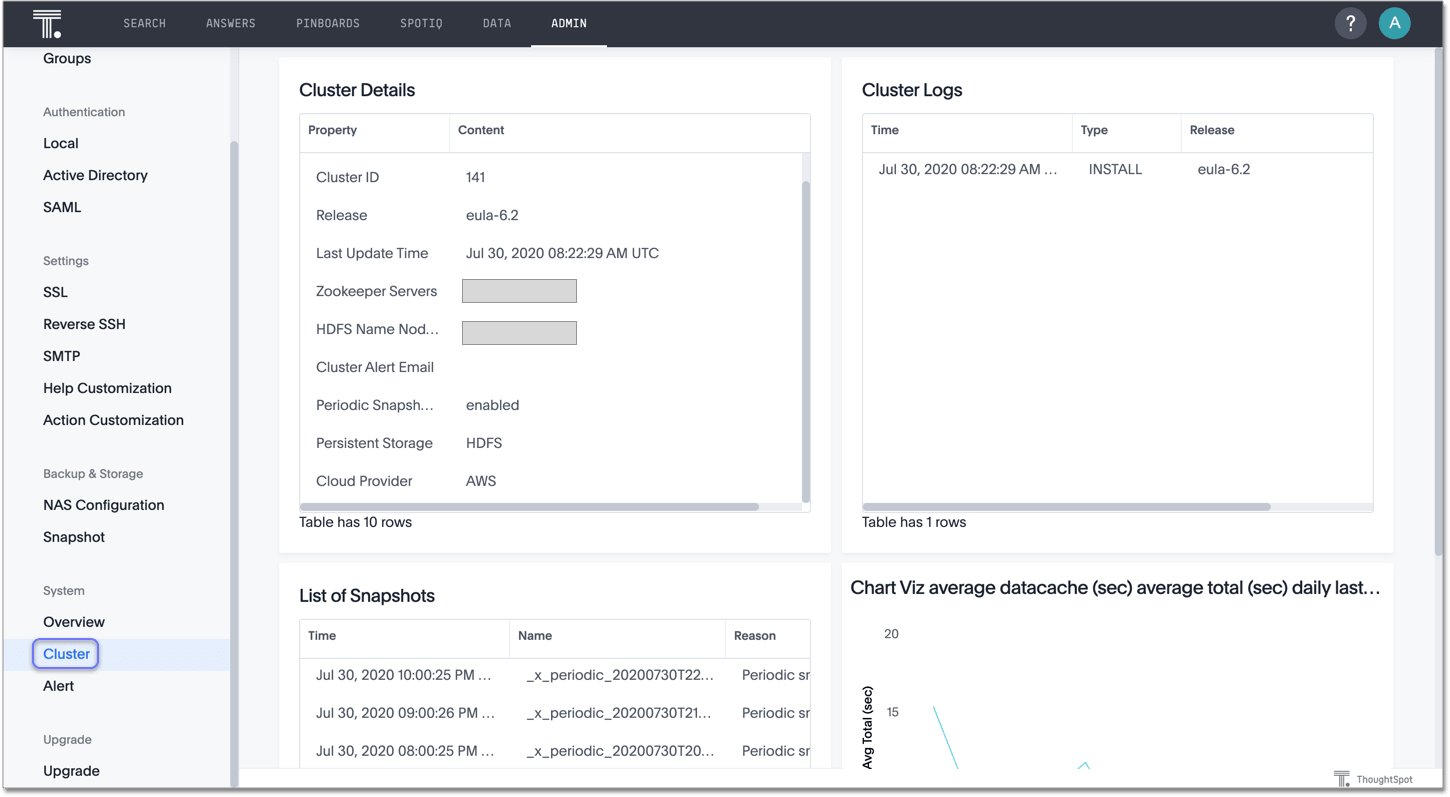
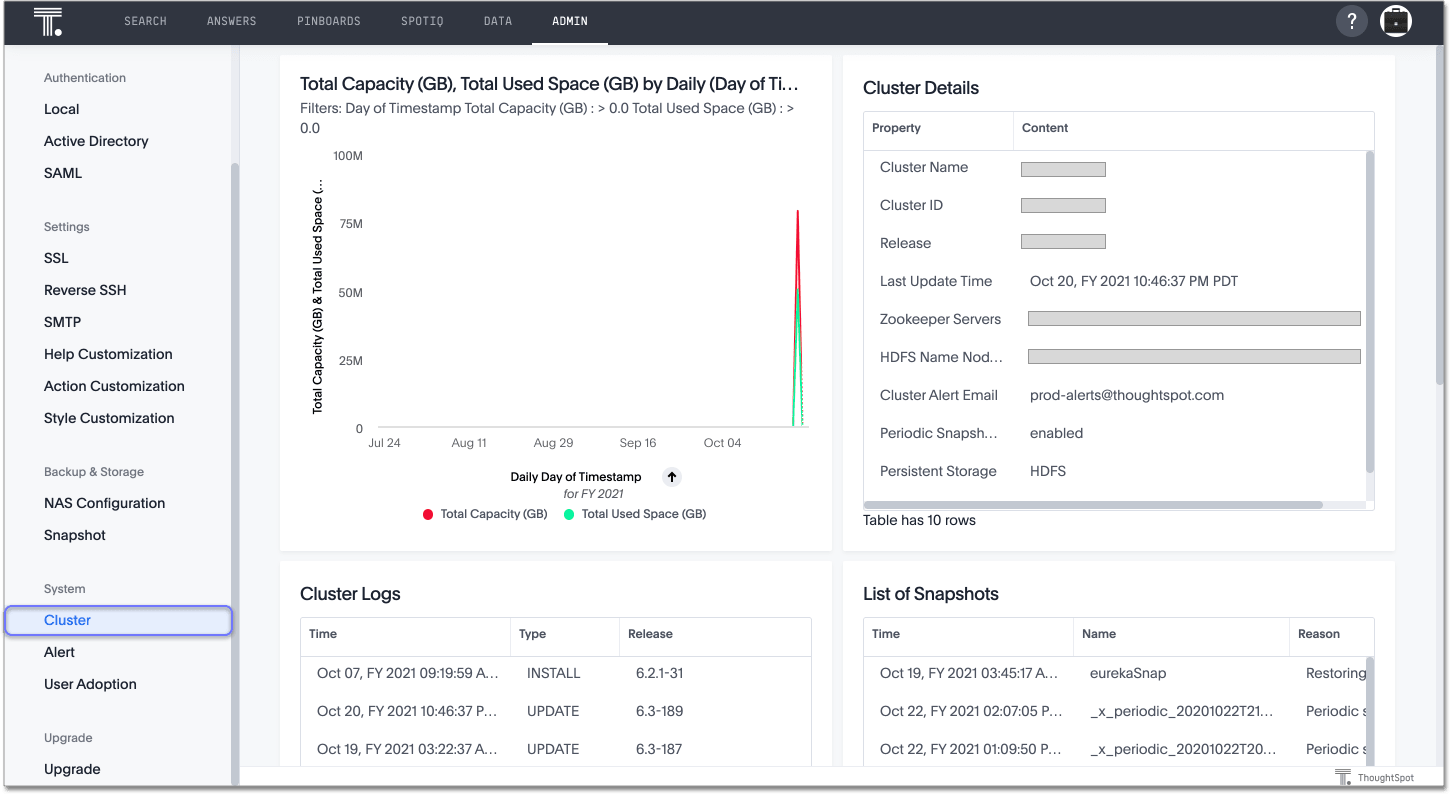
user adoption, performance tracking, removal of system overview pinboard, admin portal cleanup

diff --git a/_includes/content/admin-portal/system-overview-pinboard.md b/_includes/content/admin-portal/system-overview-pinboard.md
@@ -1,14 +1,14 @@
-You can view system and usage information for your ThoughtSpot cluster from the Admin Console. The **System Overview Pinboard** contains several charts and tables that track monthly active users, top Pinboards by number of views, today's users, and so on. To view this Pinboard, navigate to the Admin Console by clicking on the **Admin** tab from the top navigation bar. Select **Overview** from the side navigation bar that appears.
+You can view system and usage information for your ThoughtSpot cluster from the **TS Stats: System Information and Usage Pinboard**. This Pinboard contains several charts and tables that track monthly active users, top Pinboards by number of views, today's users, and so on. To view this Pinboard, search for it in the **Pinboards** tab.
 
-![Admin Console - Overview Pinboard]({{ site.baseurl }}/images/admin-portal-overview-pinboard.png "Admin Console - Overview Pinboard")
+![TS Stats: System Information and Usage Pinboard]({{ site.baseurl }}/images/system-info-usage-pinboard.png "TS Stats: System Information and Usage Pinboard")
 
-## Understand the System Overview Pinbaord
+## Understand the TS Stats: System Information and Usage Pinboard
 
-The **System Overview Pinboard** page consists of standard ThoughtSpot Answers that update in real time and rely on internal system data. The Answers rely on underlying system worksheets, which are available to ThoughtSpot administrators. The information in these worksheets updates hourly from internal tables that collect monitoring statistics.  
+The **TS Stats: System Information and Usage Pinboard** page consists of standard ThoughtSpot Answers that update in real time and rely on internal system data. The Answers rely on underlying system worksheets, which are available to ThoughtSpot administrators. The information in these worksheets updates hourly from internal tables that collect monitoring statistics.  
 
 The **more options menu** ![]({{ site.baseurl }}/images/icon-more-10px.png){: .inline} for the Answers in this Pinboard contains fewer options than the traditional menu. You can **SpotIQ analyst**, **download**, **edit,** or **present** the Answer. When you **edit** the Answer, you see the query that ThoughtSpot built the Answer on. You can also copy the Answer's embed link, use [Answer Explorer]({{ site.baseurl }}/end-user/pinboards/answer-explorer.html) on the Answer, or interact with the Answer by [drilling down]({{ site.baseurl }}/complex-search/drill-down.html). While you can interact with and change a copied version of the Answer, you cannot save changes to the underlying query.
 
-The following charts, tables, and panels are available on the **System Overview Pinboard**: [cluster summary](#cluster-summary), [relational data cache](#relational-data-cache), [relational search engine](#relational-search-engine), [critical alerts](#critical-alerts), [space utilization](#space-utilization), [monthly active users](#mau), [monthly ad-hoc searches](#monthly-searches), [monthly Pinboard views,](#monthly-pb-views), [top users last month](#top-users), [top Pinboards last month](#top-pinboards), [ad-hoc search by user](#searches-user), and [today's users](#users-today).
+The following charts, tables, and panels are available on the **TS Stats: System Information and Usage Pinboard**: [cluster summary](#cluster-summary), [critical alerts](#critical-alerts), [monthly active users](#mau), [monthly ad-hoc searches](#monthly-searches), [monthly Pinboard views,](#monthly-pb-views), [top users last month](#top-users), [top Pinboards last month](#top-pinboards), [ad-hoc search by user](#searches-user), [today's users](#users-today), and [configuration events](#configuration-events).
 
 {: id="cluster-summary"}
 ## Cluster Summary
@@ -300,6 +300,7 @@ today
 ```
 The query uses the `TS: BI Server` data source.
 
+{: id="configuration-events"}
 ## Configuration Events
 
 This system answer displays recent events that changed the configuration of the

diff --git a/_includes/content/admin-portal/system-cluster-pinboard.md b/_includes/content/admin-portal/system-cluster-pinboard.md
@@ -1,10 +1,39 @@
-You can view cluster information from the Admin Console. The **System Cluster Pinboard** contains several ThoughtSpot Answers that display latency over time, snapshot status, installed release, node functions, and logs. To view this Pinboard, navigate to the Admin Console by clicking on the **Admin** tab from the top navigation bar. Select **Cluster** from the side navigation bar that appears.
+You can view cluster information from the Admin Console. The **System Cluster Pinboard** contains several ThoughtSpot Answers that display capacity, latency over time, snapshot status, installed release, node functions, and logs. To view this Pinboard, navigate to the Admin Console by clicking on the **Admin** tab from the top navigation bar. Select **Cluster** from the side navigation bar that appears.
 
 ![Admin Console - Cluster Pinboard]({{ site.baseurl }}/images/admin-portal-cluster-pinboard.png "Admin Console - Cluster Pinboard")
 
-Only the **Average Latency Last 2 Weeks (sec)** panel contains a standard
-ThoughtSpot visualization. The other visualizations rely on internal queries
-that are not accessible. You can, however, **Present** them, or **Copy embed link**.
+Only the **Average Latency Last 2 Weeks (sec)** and **Total Capacity** panels contain a standard ThoughtSpot visualization. The other visualizations rely on internal queries that are not accessible. You can, however, **Present** them, or **Copy embed link**.
+
+{: id="space-utilization"}
+## Total Capacity (GB), Total Used Space (GB) by Daily (Day of Timestamp)
+
+The **Total Capacity (GB), Total Used Space (GB) by Daily (Day of Timestamp)** chart displays your cluster's total capacity and estimated used capacity over time.
+
+![Space utilization]({{ site.baseurl }}/images/admin-portal-overview-pinboard-space-utilization.png "Space Utilization")
+
+The x-axis is by time and the y-axis measures the size in GB. You can zoom in
+and see daily or hourly utilization data. So, in the **Space Utilization** chart
+above, the green line shows the amount of capacity in use in the system, while
+the red line shows the total capacity. An increase in the red line at the end of
+a time period indicates the addition of extra hardware, resulting in increased
+capacity.
+
+The query for this Answer is the following:
+
+
+```
+day of timestamp
+total capacity (gb)
+total used space (gb)
+daily
+last 90 days last 25 hours
+total capacity (gb) > 0
+total used space (gb) > 0
+```
+
+The chart relies on the `TS: Internal Table Wise Capacity WS` worksheet. It
+tracks  total used space, which consists of raw uncompressed data, including
+replication.
 
 ## Cluster Details
 

diff --git a/_admin/system-monitor/introduction.md b/_admin/system-monitor/introduction.md
@@ -1,25 +1,20 @@
 ---
 title: [Introduction to monitoring]
 summary: "Learn how to monitor your system."
-last_updated: 11/18/2019
+last_updated: 10/22/2020
 sidebar: mydoc_sidebar
 permalink: /:collection/:path.html
 ---
-System monitoring tools in ThoughtSpot include an **Admin > System Health** page and system logs. Additionally, ThoughtSpot provides several worksheets and
+System monitoring tools in ThoughtSpot include several Pinboards in the **Admin Console** and system logs. Additionally, ThoughtSpot provides several worksheets and
 out-of-the-box system monitoring pinboards. From these worksheets, you can
 create your own custom visualizations and pinboards.  This page introduces these features and directs you towards more detailed information.
 
-## System Health center
+## Admin Console
 
-The ThoughtSpot application includes a **System Health** center, for easy monitoring
-of usage, alerts, events and general cluster health. You view the System Health
-Center by choosing the **Admin** icon and then selecting **System Health**.
+The ThoughtSpot application includes an **Admin Console** center, where you can easily monitor usage, alerts, events and general cluster health. Navigate to the Admin Console by selecting **Admin** from the top navigation bar.
 
-![]({{ site.baseurl }}/images/control_center_overview.png "System Health center: Overview")
-
-Only users with administrative privileges can view the **System Health** center.
-However, administrative users can present to others the information that
-displays in the **System Health** center.
+Only users with administrative privileges can view the **Admin Console**.
+However, administrative users can present the information in the **Admin Console** to others
 
 Administrators can also create their own, custom boards that reflect system data
 in ways that are meaningful to specific departments or groups. For more
@@ -31,6 +26,8 @@ information, see the following documentation:
 * [Alerts and Events board]({{ site.baseurl }}/admin/system-monitor/cluster-manager.html)
 * [System worksheets]({{ site.baseurl }}/admin/system-monitor/worksheets.html)
 * [System pinboards]({{ site.baseurl }}/admin/system-monitor/monitor-pinboards.html)
+* [Falcon monitoring Pinboards]({{ site.baseurl }}/admin/system-monitor/falcon-monitor.html)
+* [Performance Tracking Pinboard]({{ site.baseurl }}/admin/system-monitor/performance-tracking.html)
 
 Much of the data presented by these boards is also available through [`tscli` commands]({{ site.baseurl }}/reference/tscli-command-ref.html).
 

diff --git a/_admin/system-monitor/monitor-pinboards.md b/_admin/system-monitor/monitor-pinboards.md
@@ -17,15 +17,13 @@ statistics.
  They are based on worksheets, which administrators can view, but not modify.
  However, you can create new monitoring pinboards from the worksheets.
 
-## List system pinboards
+## View system pinboards
 
-To list these system pinboards:
+To view these system pinboards:
 
 1. Go to the **Pinboards** tab.
 2. Choose **All**.
-3. Enter `TS: ` in the search field.
-
-   ![]({{ site.baseurl }}/images/su-pinboards.png)
+3. Search for the Pinboard you would like to view. You can view the **System Cluster Pinboard**, the **System Alert Pinboard**, and the **User Adoption Pinboard** from the Admin Console.
 
 ## Summary of system pinboards
 
@@ -73,6 +71,18 @@ To list these system pinboards:
       <td><code class="highlighter-rouge">TS Stats: Table Status</code></td>
       <td>
          Replicates the <strong>Data</strong> board.
+      </td>
+   </tr>
+   <tr>
+      <td><code class="highlighter-rouge">User Adoption</code></td>
+      <td>
+         Contains information on how your ThoughtSpot users are interacting with ThoughtSpot, and how your user adoption is changing over time. Refer to <a href="{{ site.baseurl }}/admin/admin-portal/user-adoption-pinboard.html">User Adoption Pinboard</a>.
+      </td>
+   </tr>
+   <tr>
+      <td><code class="highlighter-rouge">Performance Tracking</code></td>
+      <td>
+         Contains information on how your ThoughtSpot cluster is performing. Refer to <a href="{{ site.baseurl }}/admin/system-monitor/performance-tracking.html">Performance Tracking Pinboard</a>.
       </td>
    </tr>
   </table>

diff --git a/_admin/admin-portal/user-adoption-pinboard.md b/_admin/admin-portal/user-adoption-pinboard.md
@@ -1,0 +1,24 @@
+---
+title: [User Adoption Pinboard]
+last_updated: 10/22/2020
+summary: "Use the User Adoption Pinboard to understand how your ThoughtSpot users are interacting with ThoughtSpot, and how your user adoption is changing over time."
+sidebar: mydoc_sidebar
+permalink: /:collection/:path.html
+---
+The User Adoption Pinboard contains essential information about your ThoughtSpot users and their adoption of the platform. Use this Pinboard to understand weekly active users, inactive users, top 10 adhoc searchers, popular Pinboards, and so on.
+
+To view this Pinboard, navigate to the **Admin Console** by selecting **Admin** from the top navigation bar. Select **User Adoption** from the side navigation bar.
+
+![User Adoption Pinboard]({{ site.baseurl }}/images/user-adoption.png "User Adoption Pinboard")
+
+You can filter the Pinboard by user from the filter bar underneath the Pinboard name.
+
+Use this Pinboard to view and analyze information about the following topics:
+- hourly, daily, weekly, and monthly active users
+- number of Pinboards and Answers on the cluster
+- which users are most active in ThoughtSpot, and what they do
+- popular Pinboards
+- user actions in the last month
+- unused Answers and Pinboards
+- inactive users
+- users by last login, number of Pinboard interactions, number of Search interactions, and number of days logged in during the last 6 months

diff --git a/_admin/system-monitor/performance-tracking.md b/_admin/system-monitor/performance-tracking.md
@@ -1,0 +1,25 @@
+---
+title: [Performance Tracking Pinboard]
+last_updated: 10/22/2020
+summary: "Use the Performance Tracking Pinboard to understand how your ThoughtSpot cluster is performing."
+sidebar: mydoc_sidebar
+permalink: /:collection/:path.html
+---
+The Performance Tracking Pinboard contains essential information about your ThoughtSpot cluster's performance. Use this Pinboard to understand query latency, user traffic, how users are interacting with ThoughtSpot, most frequently loaded tables, and so on.
+
+![Performance Tracking Pinboard]({{ site.baseurl }}/images/performance-tracking.png "Performance Tracking Pinboard")
+
+To view this Pinboard, click on the **Pinboards** tab from the top navigation bar. Search for **Performance Tracking**.
+
+![Performance Tracking Pinboard]({{ site.baseurl }}/images/performance-tracking-search.png "Performance Tracking Pinboard")
+
+Use this Pinboard to view and analyze information about the following topics:
+- query latency
+- whether users are searchers or consumers
+- user traffic
+- database latency
+- query timeouts
+- frequently loaded tables
+- data requests and latency
+- data errors
+- pinboard latency

diff --git a/_admin/admin-portal/admin-portal.md b/_admin/admin-portal/admin-portal.md
@@ -50,7 +50,6 @@ Use network attached storage to support backup/restore and data loading.
 Create and manage snapshots, which you can use to restore the cluster to a specific point in time.
 
 **Monitor system**
-* [View System Overview Pinboard]({{ site.baseurl }}/admin/admin-portal/system-overview-pinboard.html)<br>
 View and explore your users' activity on the system overview Pinboard.
 * [View System Cluster Pinboard]({{ site.baseurl }}/admin/admin-portal/system-cluster-pinboard.html)<br>
 View and explore cluster activity on the system cluster Pinboard.

diff --git a/_reference/alerts-reference.md b/_reference/alerts-reference.md
@@ -6,8 +6,7 @@ sidebar: mydoc_sidebar
 permalink: /:collection/:path.html
 ---
 
-This reference identifies the messages that can appear in the **System Health >
-Overview > Critical Alerts** and in the  **Alerts** dashboard.
+This reference identifies the messages that can appear in the **TS Stats: System Information and Usage > Critical Alerts** panel and in the  **Alerts** dashboard.
 
 ## Informational alerts
 

diff --git a/_admin/system-monitor/overview.md b/_admin/system-monitor/overview.md
@@ -1,7 +1,7 @@
 ---
-title: [Overview board]
-summary: The Overview pinboard provides useful information about your cluster.
-last_updated: 7/28/2020
+title: [System Information and Usage]
+summary: The System Information and Usage Pinboard provides useful information about your cluster.
+last_updated: 10/22/2020
 toc: true
 sidebar: mydoc_sidebar
 permalink: /:collection/:path.html
